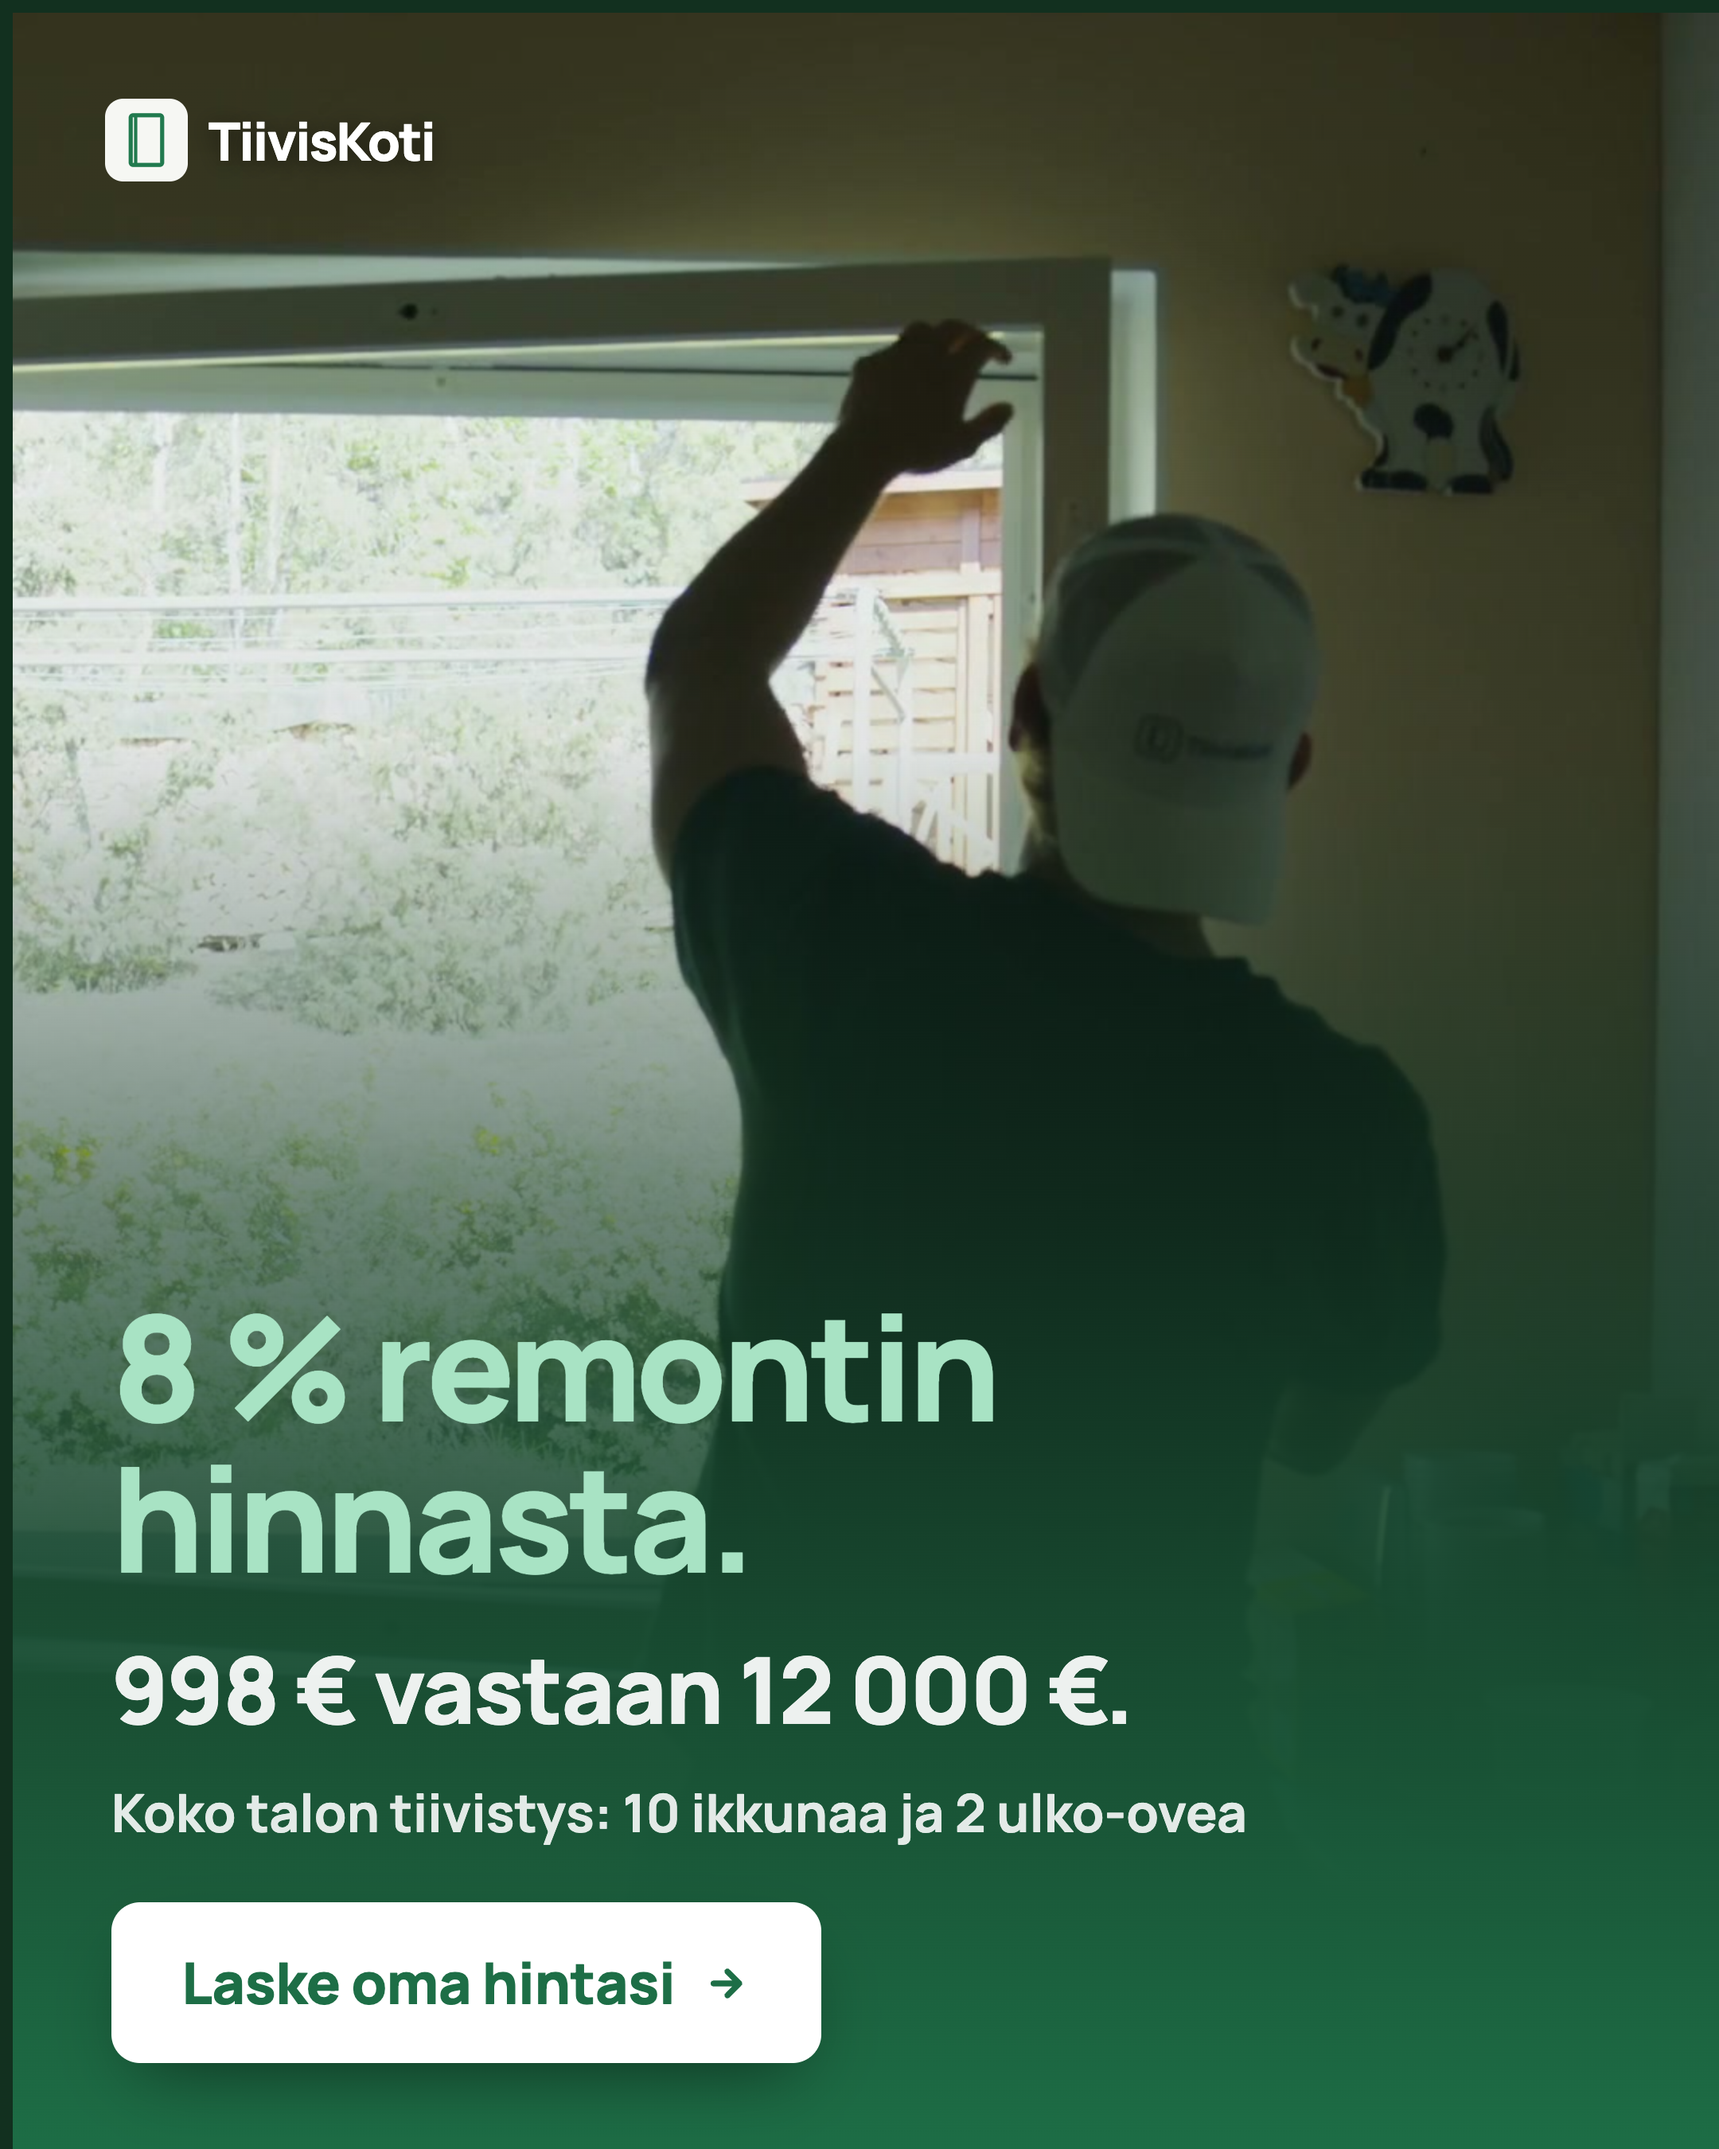
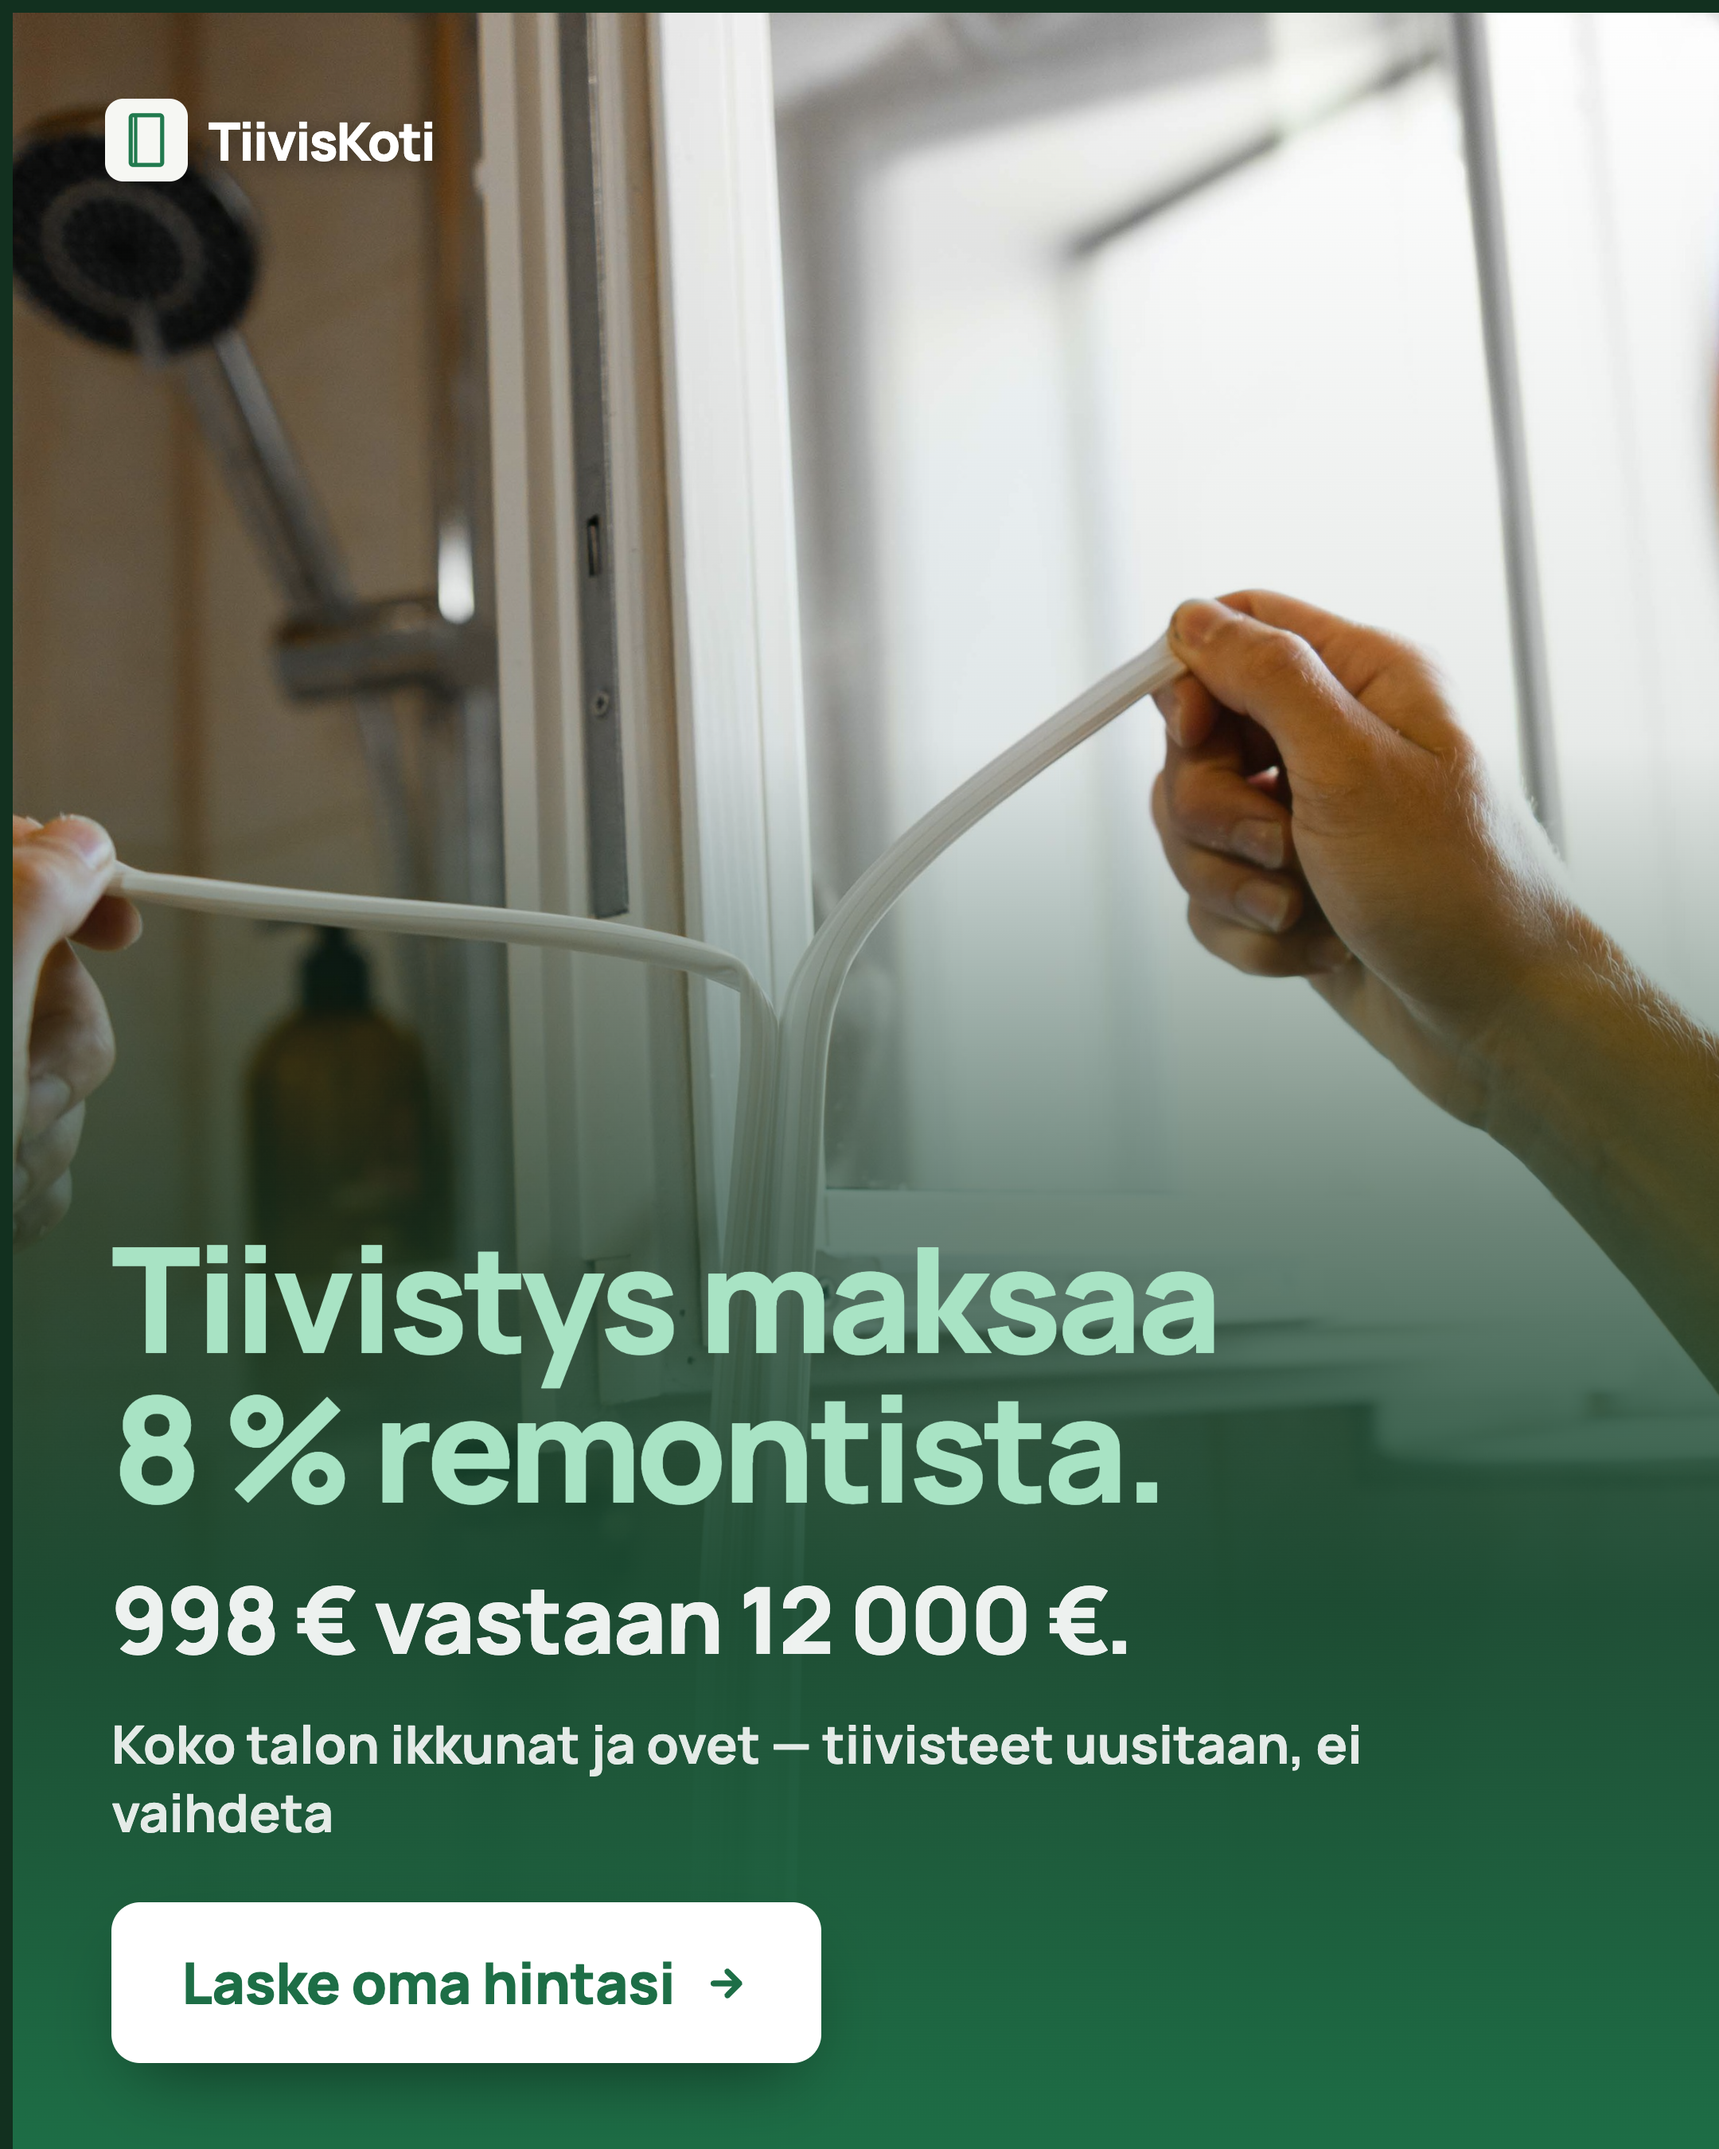
Mainoksiin palvelu otsikkoon ja kuvaksi itse tiivistystyo
Josua huomautti KOLMANNEN kerran ettei mainoksista kay ilmi mita
myydaan. Sama havainto on jo _niukka.css:n kommentissa elokuulta.
Syy loytyi: uusissa kulmissa palvelu oli valunut alariville, koska
otsikko kaytettiin kulman karkeen ("Ei tarjouspyyntoa", "Oma porukka",
"Pienin kaynti 149 EUR"). Ohi selaava lukee vain ison tekstin.

Voittava TK37 tekee oikein — "Ikkunan tiivistys alk. 75 EUR" on h1:ssa.
Sita ei huomattu kopioida. Nyt jokaisen mainoksen h1 sisaltaa sanan
tiivistys tai tiiviste, ja kulman karki siirtyi ankkuririville.

KUVAT UUSIKSI. Ulkoa otettu ikkunakuva kertoo "ikkuna", ei "tiivistys".
Nyt kaytossa vain kuvat joissa tiiviste tai sen asennus nakyy:
s26-uratiiviste (tiiviste painetaan uraan), s26-massa (massapuristin),
ad-kela, ad-saapuu, ad-veto. Ei yhtaan pelkkaa kasvokuvaa (Josua 28.9.)
eika samaa kuvaa kahdessa mainoksessa.

TK44 (paperitesti) POISTETTU. Josua: tunnistuskulma on huono tehda
tekstilla — ohje vaatii nayttamista, ja still-kuva pyytaa lukijaa
tekemaan kotitehtavan. Kuuluu Reelsiin jos johonkin.

Jaljella 7 aihiota: TK43 suhdeluku, TK45 kilpailuero, TK46 kausi,
TK47 luottamus, TK48 saasto, TK49 hintavastavaite, TK50 varauskortti.

Ei viety mainostilille.

diff --git a/tiiviskoti/mainokset/mainos-tk43-prosentti.html b/tiiviskoti/mainokset/mainos-tk43-prosentti.html
@@ -8,13 +8,10 @@
 <link href="_niukka.css" rel="stylesheet">
 </head>
 <body>
-  <!-- TK43 — SUHDELUKU. Ainoa luku jota kummallakaan kilpailijalla ei ole.
-       Sama ankkuri kuin voittavassa TK37:ssa (uusi ikkuna vs. tiivistys),
-       mutta ilmaistuna prosenttina: iso luku tekee hinnasta pienen ilman
-       etta hintaa tarvitsee alentaa. 998 EUR = 10 ikkunaa + 2 ulko-ovea,
-       12 000 EUR = samojen 10 ikkunan vaihto a 1 200 EUR. Molemmat
-       laskettu pricing.mjs:sta 28.9.2026. -->
-  <div class="photo"><img src="kuvat/vid-ikkuna-avaus.jpg" alt=""></div>
+  <!-- TK43 SUHDELUKU. Kuva: tiiviste painetaan uraan - se on kirjaimellisesti
+       myytava tyo. Aiempi versio kaytti ulkoa otettua ikkunakuvaa, josta ei
+       nakynyt mita tehdaan. -->
+  <div class="photo"><img src="kuvat/s26-uratiiviste.jpg" alt=""></div>
   <div class="wash"></div>
   <div class="mark">
     <svg viewBox="0 0 100 100">
@@ -25,8 +22,8 @@
     <span>TiivisKoti</span>
   </div>
   <div class="block">
-    <h1><span class="hl">8 % remontin<br>hinnasta.</span><br><span class="anchor">998 € vastaan 12 000 €.</span></h1>
-    <p class="sub">Koko talon tiivistys: 10 ikkunaa ja 2 ulko-ovea</p>
+    <h1><span class="hl">Tiivistys maksaa<br>8 % remontista.</span><br><span class="anchor">998 € vastaan 12 000 €.</span></h1>
+    <p class="sub">Koko talon ikkunat ja ovet — tiivisteet uusitaan, ei vaihdeta</p>
     <span class="btn">Laske oma hintasi
       <svg viewBox="0 0 24 24" fill="none" stroke-width="3" stroke-linecap="round" stroke-linejoin="round"><path d="M5 12h12M12 6l6 6-6 6"/></svg>
     </span>

diff --git a/tiiviskoti/mainokset/mainos-tk45-ei-tarjouspyyntoa.html b/tiiviskoti/mainokset/mainos-tk45-ei-tarjouspyyntoa.html
@@ -8,12 +8,10 @@
 <link href="_niukka.css" rel="stylesheet">
 </head>
 <body>
-  <!-- TK45 — KILPAILUERO. Tama on ainoa mainos jota kumpikaan kilpailija ei
-       voi kopioida: KilpiLasilla EI OLE verkkovarausta lainkaan ja
-       heidan jokainen mainoksensa johtaa laskuriin tai tarjouspyyntoon.
-       Vaite "hinta ennen varausta" on tarkistettavissa yhdella klikilla,
-       mika tekee siita vahvan. -->
-  <div class="photo"><img src="kuvat/ad-ikkuna-pieni.jpg" alt=""></div>
+  <!-- TK45 KILPAILUERO. Aiemmassa versiossa otsikko oli "Ei tarjouspyyntoa"
+       eika sanaa tiivistys ollut koko mainoksessa. Nyt kilpailuetu on
+       ankkurirvilla ja palvelu otsikossa. -->
+  <div class="photo"><img src="kuvat/s26-massa.jpg" alt=""></div>
   <div class="wash"></div>
   <div class="mark">
     <svg viewBox="0 0 100 100">
@@ -24,8 +22,8 @@
     <span>TiivisKoti</span>
   </div>
   <div class="block">
-    <h1><span class="hl">Ei tarjous-<br>pyyntöä.</span><br><span class="anchor">Näet hinnan ja varaat ajan alle minuutissa.</span></h1>
-    <p class="sub">Ikkuna 75–90 €, ulko-ovi 99 € · hinta tiedossa ennen varausta</p>
+    <h1><span class="hl">Tiivistyksen hinta<br>ilman tarjouspyyntöä.</span><br><span class="anchor">Näet summan ja varaat ajan alle minuutissa.</span></h1>
+    <p class="sub">Ikkuna 75–90 €, ulko- ja parvekeovi 99 €</p>
     <span class="btn">Varaa aika
       <svg viewBox="0 0 24 24" fill="none" stroke-width="3" stroke-linecap="round" stroke-linejoin="round"><path d="M5 12h12M12 6l6 6-6 6"/></svg>
     </span>

diff --git a/tiiviskoti/mainokset/mainos-tk47-oma-porukka.html b/tiiviskoti/mainokset/mainos-tk47-oma-porukka.html
@@ -8,12 +8,10 @@
 <link href="_niukka.css" rel="stylesheet">
 </head>
 <body>
-  <!-- TK47 — LUOTTAMUS. TAYDENTAVA, EI PAAKARKI: henkilokuva on mitattu
-       heikommaksi kuin makrolahikuva (22.8.), joten tata ei pida ajaa
-       paabudjetilla. Korvaa takuulupauksen, jota ei kayteta
-       myyntikarkena. TARKISTA NIMI ennen julkaisua - ruutu on videolta,
-       enka tieda varmasti kuka siina on. -->
-  <div class="photo"><img src="kuvat/vid-asentaja-kasvot.jpg" alt=""></div>
+  <!-- TK47 LUOTTAMUS. KASVOKUVA POISTETTU (Josua 28.9.). Tilalla asentajat
+       saapumassa tiivistekela kadessa: ihmiset nakyvat mutta kuva kertoo
+       silti mita tuodaan. Edelleen taydentava, ei paakarki. -->
+  <div class="photo"><img src="kuvat/ad-saapuu.jpg" alt=""></div>
   <div class="wash"></div>
   <div class="mark">
     <svg viewBox="0 0 100 100">
@@ -24,7 +22,7 @@
     <span>TiivisKoti</span>
   </div>
   <div class="block">
-    <h1><span class="hl">Oma porukka.</span><br><span class="anchor">Ei alihankintaa, ei myyntikäyntiä ennen työtä.</span></h1>
+    <h1><span class="hl">Tiivistyksen tekee<br>oma porukka.</span><br><span class="anchor">Ei alihankintaa, ei myyntikäyntiä ennen työtä.</span></h1>
     <p class="sub">Sama tekijä varauksesta raporttiin</p>
     <span class="btn">Varaa aika
       <svg viewBox="0 0 24 24" fill="none" stroke-width="3" stroke-linecap="round" stroke-linejoin="round"><path d="M5 12h12M12 6l6 6-6 6"/></svg>

diff --git a/tiiviskoti/mainokset/mainos-tk46-pakkanen.html b/tiiviskoti/mainokset/mainos-tk46-pakkanen.html
@@ -8,11 +8,9 @@
 <link href="_niukka.css" rel="stylesheet">
 </head>
 <body>
-  <!-- TK46 — KAUSIVASTAVAITE. Sama vastavaite jota seka AaltoAir etta
-       KilpiLasi ajavat omana mainoksenaan ("Luulin etta pitaa odottaa
-       kevaaseen") - se tarkoittaa etta molemmat ovat mitanneet sen
-       toimivaksi. Meidan versiomme lisaa syyn miksi odottaminen maksaa. -->
-  <div class="photo"><img src="kuvat/vid-keittio-ikkuna.jpg" alt=""></div>
+  <!-- TK46 KAUSIVASTAVAITE. Kuva: tiiviste leikataan mittaan. Sisatyo nakyy
+       kuvassa, mika tukee vaitetta "tehdaan sisakautta". -->
+  <div class="photo"><img src="kuvat/s26-sakset.jpg" alt=""></div>
   <div class="wash"></div>
   <div class="mark">
     <svg viewBox="0 0 100 100">
@@ -23,7 +21,7 @@
     <span>TiivisKoti</span>
   </div>
   <div class="block">
-    <h1><span class="hl">Miksi odottaa<br>kevääseen?</span><br><span class="anchor">Veto maksaa joka pakkaspäivä.</span></h1>
+    <h1><span class="hl">Tiivistys nyt,<br>ei keväällä.</span><br><span class="anchor">Veto maksaa joka pakkaspäivä.</span></h1>
     <p class="sub">Työ tehdään sisäkautta · noin 20 min ikkunaa kohti</p>
     <span class="btn">Varaa aika
       <svg viewBox="0 0 24 24" fill="none" stroke-width="3" stroke-linecap="round" stroke-linejoin="round"><path d="M5 12h12M12 6l6 6-6 6"/></svg>

diff --git a/tiiviskoti/mainokset/mainos-tk48-saasto.html b/tiiviskoti/mainokset/mainos-tk48-saasto.html
@@ -8,13 +8,9 @@
 <link href="_paneeli.css" rel="stylesheet">
 </head>
 <body>
-  <!-- TK48 — SAASTO EUROINA. AaltoAirin tehokkain tekniikka (esimerkkitalo
-       joka muuttaa prosentin euroiksi valivaiheineen), mutta MEIDAN
-       luvuillamme. 10-15 % on sivuston vakiintunut arvio jolle on
-       artikkelissa perustelu; ALA nosta sita AaltoAirin 30-40 %:iin -
-       ilmalampopumppu tuottaa lampoa tehokkaammin, tiivistys estaa
-       hukkaa. Takaisinmaksu lasketaan VAIN koko talon paketille. -->
-  <div class="photo"><img src="kuvat/vid-ikkuna-avaus.jpg" alt=""></div>
+  <!-- TK48 SAASTO EUROINA. Otsikko nimeaa palvelun; ilman sita paneeli olisi
+       pelkka lukutaulukko jota ei osaa yhdistaa mihinkaan. -->
+  <div class="photo"><img src="kuvat/ad-veto.jpg" alt=""></div>
   <div class="wash"></div>
   <div class="mark">
     <svg viewBox="0 0 100 100">
@@ -25,7 +21,7 @@
     <span>TiivisKoti</span>
   </div>
   <div class="block">
-    <h1>Mitä 10–15 % on<br><span class="hl">euroina?</span></h1>
+    <h1>Mitä tiivistys<br>säästää <span class="hl">euroina?</span></h1>
     <div class="rows">
       <div class="row"><span class="lbl">Lämmityslasku ennen</span><span class="val">2 000 €</span></div>
       <div class="row"><span class="lbl">Tiivistyksen jälkeen</span><span class="val">~1 750 €</span></div>

diff --git a/tiiviskoti/mainokset/mainos-tk49-minimi.html b/tiiviskoti/mainokset/mainos-tk49-minimi.html
@@ -8,11 +8,8 @@
 <link href="_paneeli.css" rel="stylesheet">
 </head>
 <body>
-  <!-- TK49 — HINTAVASTAVAITE. Myontaa vastavaitteen ennen kuin lukija
-       ehtii esittaa sen, ja kertoo suoraan milloin EI kannata tilata.
-       Se on ainoa mainos jossa neuvomme olemaan ostamatta, ja juuri se
-       tekee muista hintavaitteista uskottavia. Portaat ovat
-       pricing.mjs:n mukaiset: 90/85/80 EUR rajoilla 1-4/5-9/10-13. -->
+  <!-- TK49 HINTAVASTAVAITE. "Pienin kaynti" ei kerro mista palvelusta on kyse,
+       joten otsikko nimeaa sen ensin. -->
   <div class="photo"><img src="kuvat/ad-ikkuna-suora.jpg" alt=""></div>
   <div class="wash"></div>
   <div class="mark">
@@ -24,7 +21,7 @@
     <span>TiivisKoti</span>
   </div>
   <div class="block">
-    <h1>Pienin käynti<br><span class="hl">149 €.</span></h1>
+    <h1>Ikkunoiden tiivistys:<br><span class="hl">pienin käynti 149 €.</span></h1>
     <div class="rows">
       <div class="row"><span class="lbl">3 ikkunaa</span><span class="val">270 €</span></div>
       <div class="row"><span class="lbl">5 ikkunaa</span><span class="val">425 €</span></div>
